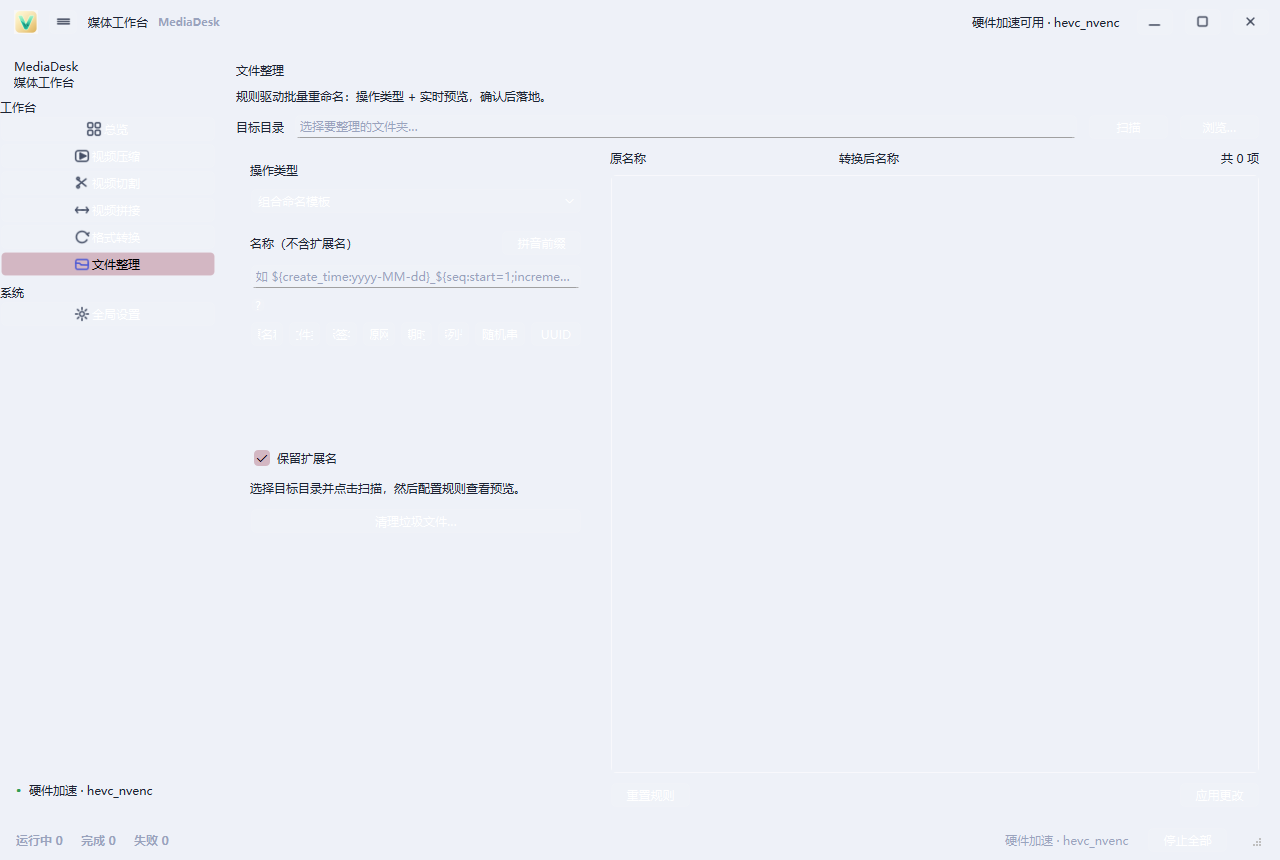
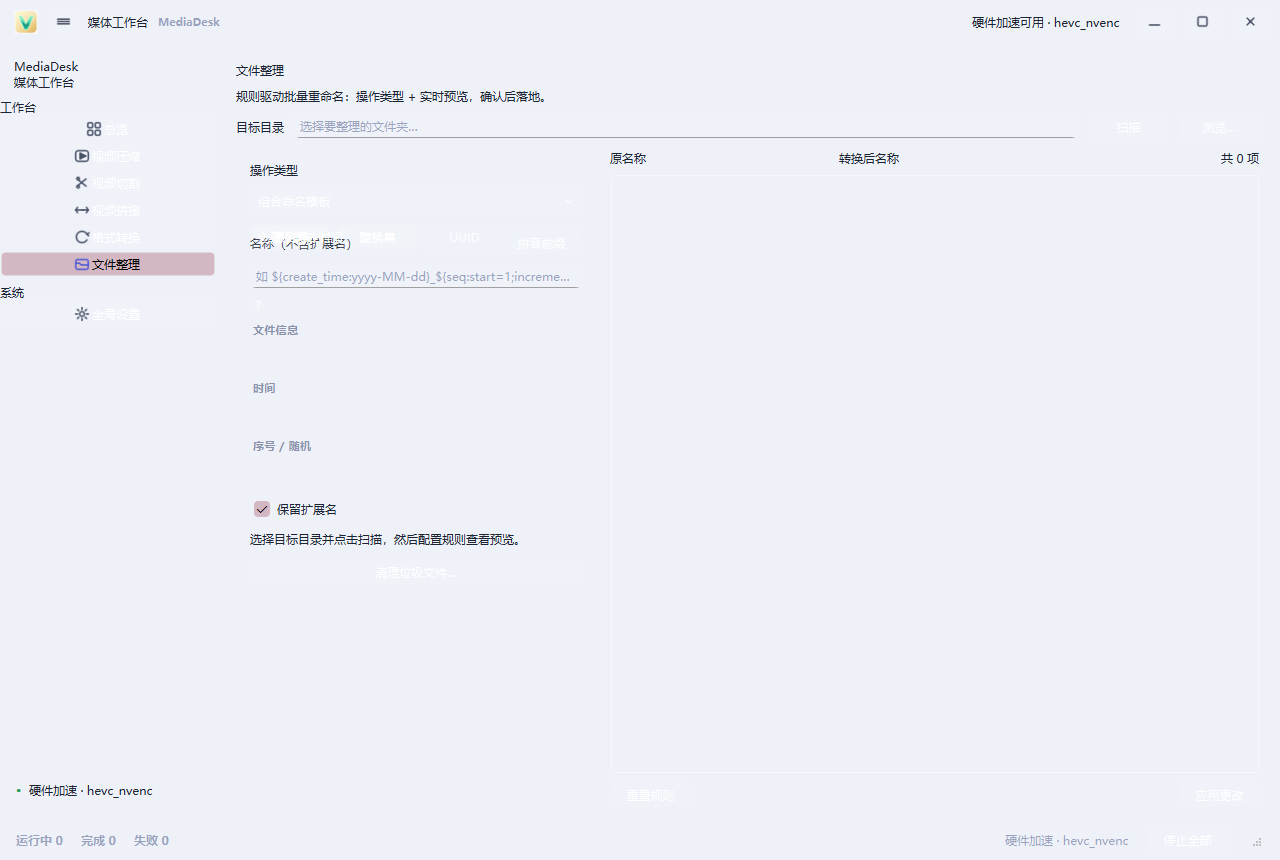
feat: 文件整理模板变量重设计——分组流式插入面板，hover语义提示

diff --git a/app/ui/rename_page.py b/app/ui/rename_page.py
@@ -7,11 +7,11 @@
 """
 from pathlib import Path
 
-from PySide6.QtCore import Qt, QTimer
+from PySide6.QtCore import QRect, QSize, Qt, QTimer
 from PySide6.QtWidgets import (
     QCheckBox, QComboBox, QDialog, QFileDialog, QFrame, QHBoxLayout, QLabel,
-    QLineEdit, QMessageBox, QPushButton, QRadioButton, QScrollArea, QSpinBox,
-    QStackedWidget, QVBoxLayout, QWidget,
+    QLayout, QLineEdit, QMessageBox, QPushButton, QRadioButton, QScrollArea,
+    QSpinBox, QStackedWidget, QVBoxLayout, QWidget, QWidgetItem,
 )
 
 from ..renamer import (
@@ -27,20 +27,84 @@ _COLOR_OK = "#2f9e54"
 
 
 class _VarButton(QPushButton):
-    """模板变量的快速插入按钮，点击即把关键字文本追加进模板。"""
+    """模板变量的快速插入按钮，点击即把关键字文本插入模板光标处。"""
 
-    def __init__(self, text: str, value: str, target: QLineEdit):
+    def __init__(self, text: str, value: str, target: QLineEdit, hint: str = ""):
         super().__init__(text)
         self._value = value
         self._target = target
         self.setCursor(Qt.CursorShape.PointingHandCursor)
         self.setObjectName("Ghost")
+        if hint:
+            self.setToolTip(hint)
         self.clicked.connect(self._insert)
 
     def _insert(self) -> None:
         cur = self._target
         cur.insert(self._value)
         cur.setFocus()
+
+
+class _FlowLayout(QLayout):
+    """轻量流式布局：子项放不下自动换行，避免按钮挤压成“一坨”。"""
+
+    def __init__(self, spacing: int = 6, parent=None):
+        super().__init__(parent)
+        self._items: list[QLayoutItem] = []
+        self.setSpacing(spacing)
+
+    def addItem(self, item) -> None:
+        self._items.append(item)
+
+    def addWidget(self, w) -> None:
+        self.addChildWidget(w)
+        self.addItem(QWidgetItem(w))
+
+    def count(self) -> int:
+        return len(self._items)
+
+    def itemAt(self, i: int):
+        return self._items[i] if 0 <= i < len(self._items) else None
+
+    def takeAt(self, i: int):
+        return self._items.pop(i) if 0 <= i < len(self._items) else None
+
+    def expandingDirections(self):
+        return Qt.Orientation(0)
+
+    def hasHeightForWidth(self) -> bool:
+        return True
+
+    def heightForWidth(self, width: int) -> int:
+        return self._do(width).height()
+
+    def setGeometry(self, rect: QRect) -> None:
+        super().setGeometry(rect)
+        self._do(rect.width(), rect)
+
+    def sizeHint(self) -> QSize:
+        return self._do(10 ** 5)
+
+    def minimumSize(self) -> QSize:
+        s = QSize()
+        for it in self._items:
+            s = s.expandedTo(it.minimumSize())
+        return s
+
+    def _do(self, width: int, rect: QRect | None = None) -> QSize:
+        x = y = line_h = 0
+        gap = self.spacing()
+        for it in self._items:
+            hs = it.sizeHint()
+            if x > 0 and x + hs.width() > width:
+                x = 0
+                y += line_h + gap
+                line_h = 0
+            if rect is not None:
+                it.setGeometry(QRect(x, y, hs.width(), hs.height()))
+            x += hs.width() + gap
+            line_h = max(line_h, hs.height())
+        return QSize(x if x > gap else 0, y + line_h)
 
 
 class _DateTimeDialog(QDialog):
@@ -290,39 +354,40 @@ class RenamePage(QWidget):
         self.template_input.setPlaceholderText("如 ${create_time:yyyy-MM-dd}_${seq:start=1;increment=1;padding=3}")
         self.template_input.textChanged.connect(self._schedule_refresh)
         lay.addWidget(self.template_input)
-        lay.addWidget(HelpLabel("点下方按钮插入变量；普通文字可混写。"))
+        lay.addWidget(HelpLabel("点下方按钮把变量插到光标处；普通文字可混写。"))
 
-        grid = QHBoxLayout()
-        grid.setSpacing(4)
-        # val 为 None 表示占位按钮（依赖媒体库元数据，本轮暂无数据源）；
-        # val == "__datetime__" 表示「日期时间」选择弹窗入口。
-        vars_ = [("原名称", "${original}"), ("文件夹", "${folder}"),
-                 ("标签名", None),
-                 ("来源网站", None), ("日期时间", "__datetime__"), ("序列号", "${seq:start=1;increment=1;padding=3}"),
-                 ("随机串", "${random:6}"), ("UUID", "${uuid}")]
-        for i in range(0, len(vars_), 3):
-            row = QHBoxLayout()
-            row.setSpacing(4)
-            for text, val in vars_[i:i + 3]:
-                if val is None:
-                    b = QPushButton(text)
-                    b.setObjectName("Ghost")
-                    b.setCursor(Qt.CursorShape.PointingHandCursor)
-                    b.clicked.connect(
-                        lambda _=False, t=text: QMessageBox.information(
-                            self, "暂不支持",
-                            f"「{t}」依赖媒体标签/来源元数据，当前暂无数据源。"))
-                    row.addWidget(b)
-                elif val == "__datetime__":
-                    b = QPushButton(text)
-                    b.setObjectName("Ghost")
-                    b.setCursor(Qt.CursorShape.PointingHandCursor)
-                    b.clicked.connect(self._open_datetime)
-                    row.addWidget(b)
-                else:
-                    row.addWidget(_VarButton(text, val, self.template_input))
-            grid.addLayout(row)
-        lay.addLayout(grid)
+        def _group(title: str) -> QLabel:
+            t = QLabel(title)
+            t.setStyleSheet("color:#8b93ab;font-size:11px;font-weight:600;margin-top:2px;letter-spacing:0.4px;")
+            return t
+
+        # 文件信息
+        lay.addWidget(_group("文件信息"))
+        _fi = _FlowLayout(6)
+        _fi.addWidget(_VarButton("原名称", "${original}", self.template_input, "原文件名（不含扩展名）"))
+        _fi.addWidget(_VarButton("文件夹", "${folder}", self.template_input, "文件所在文件夹名"))
+        lay.addLayout(_fi)
+
+        # 时间
+        lay.addWidget(_group("时间"))
+        _tm = _FlowLayout(6)
+        _db = QPushButton("创建 / 修改时间")
+        _db.setObjectName("Ghost")
+        _db.setCursor(Qt.CursorShape.PointingHandCursor)
+        _db.setToolTip("选择时间源（创建 / 修改）与格式后插入")
+        _db.clicked.connect(self._open_datetime)
+        _tm.addWidget(_db)
+        lay.addLayout(_tm)
+
+        # 序号 / 随机
+        lay.addWidget(_group("序号 / 随机"))
+        _sr = _FlowLayout(6)
+        _sr.addWidget(_VarButton("序列号", "${seq:start=1;increment=1;padding=3}",
+                                 self.template_input, "自动递增序号，可设起始 / 增量 / 补零"))
+        _sr.addWidget(_VarButton("随机串", "${random:6}", self.template_input, "N 位随机字符串"))
+        _sr.addWidget(_VarButton("UUID", "${uuid}", self.template_input, "随机 UUID"))
+        lay.addLayout(_sr)
+
         lay.addStretch(1)
         w.setLayout(lay)
         return w
